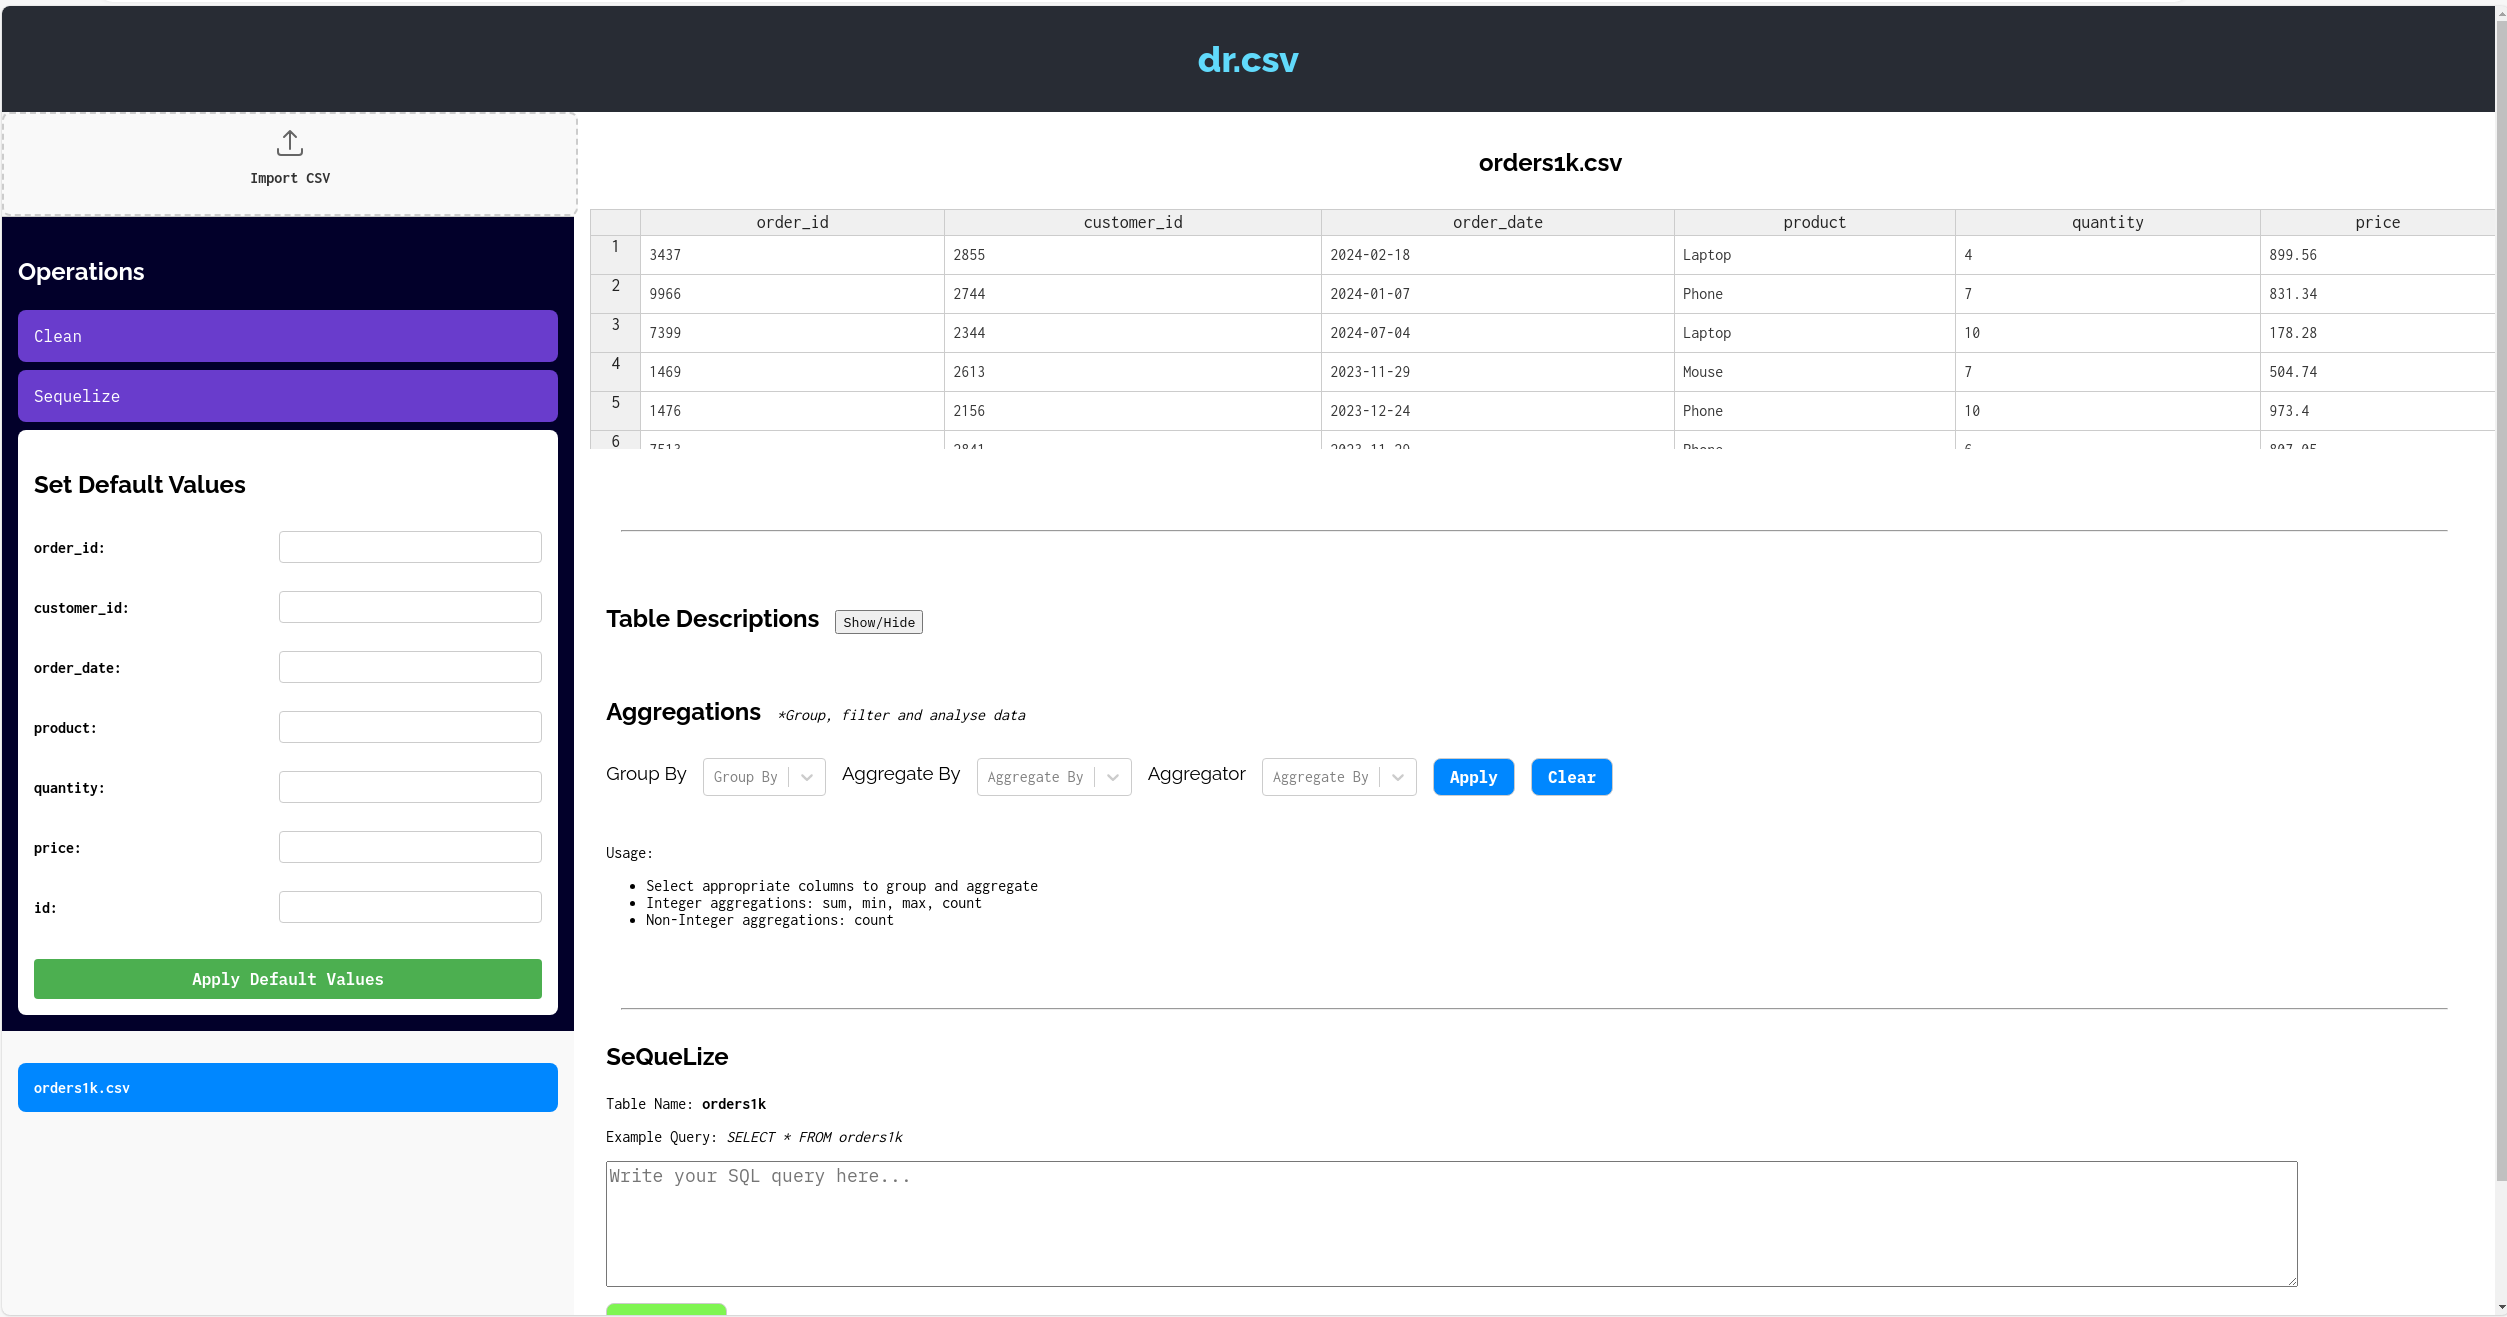
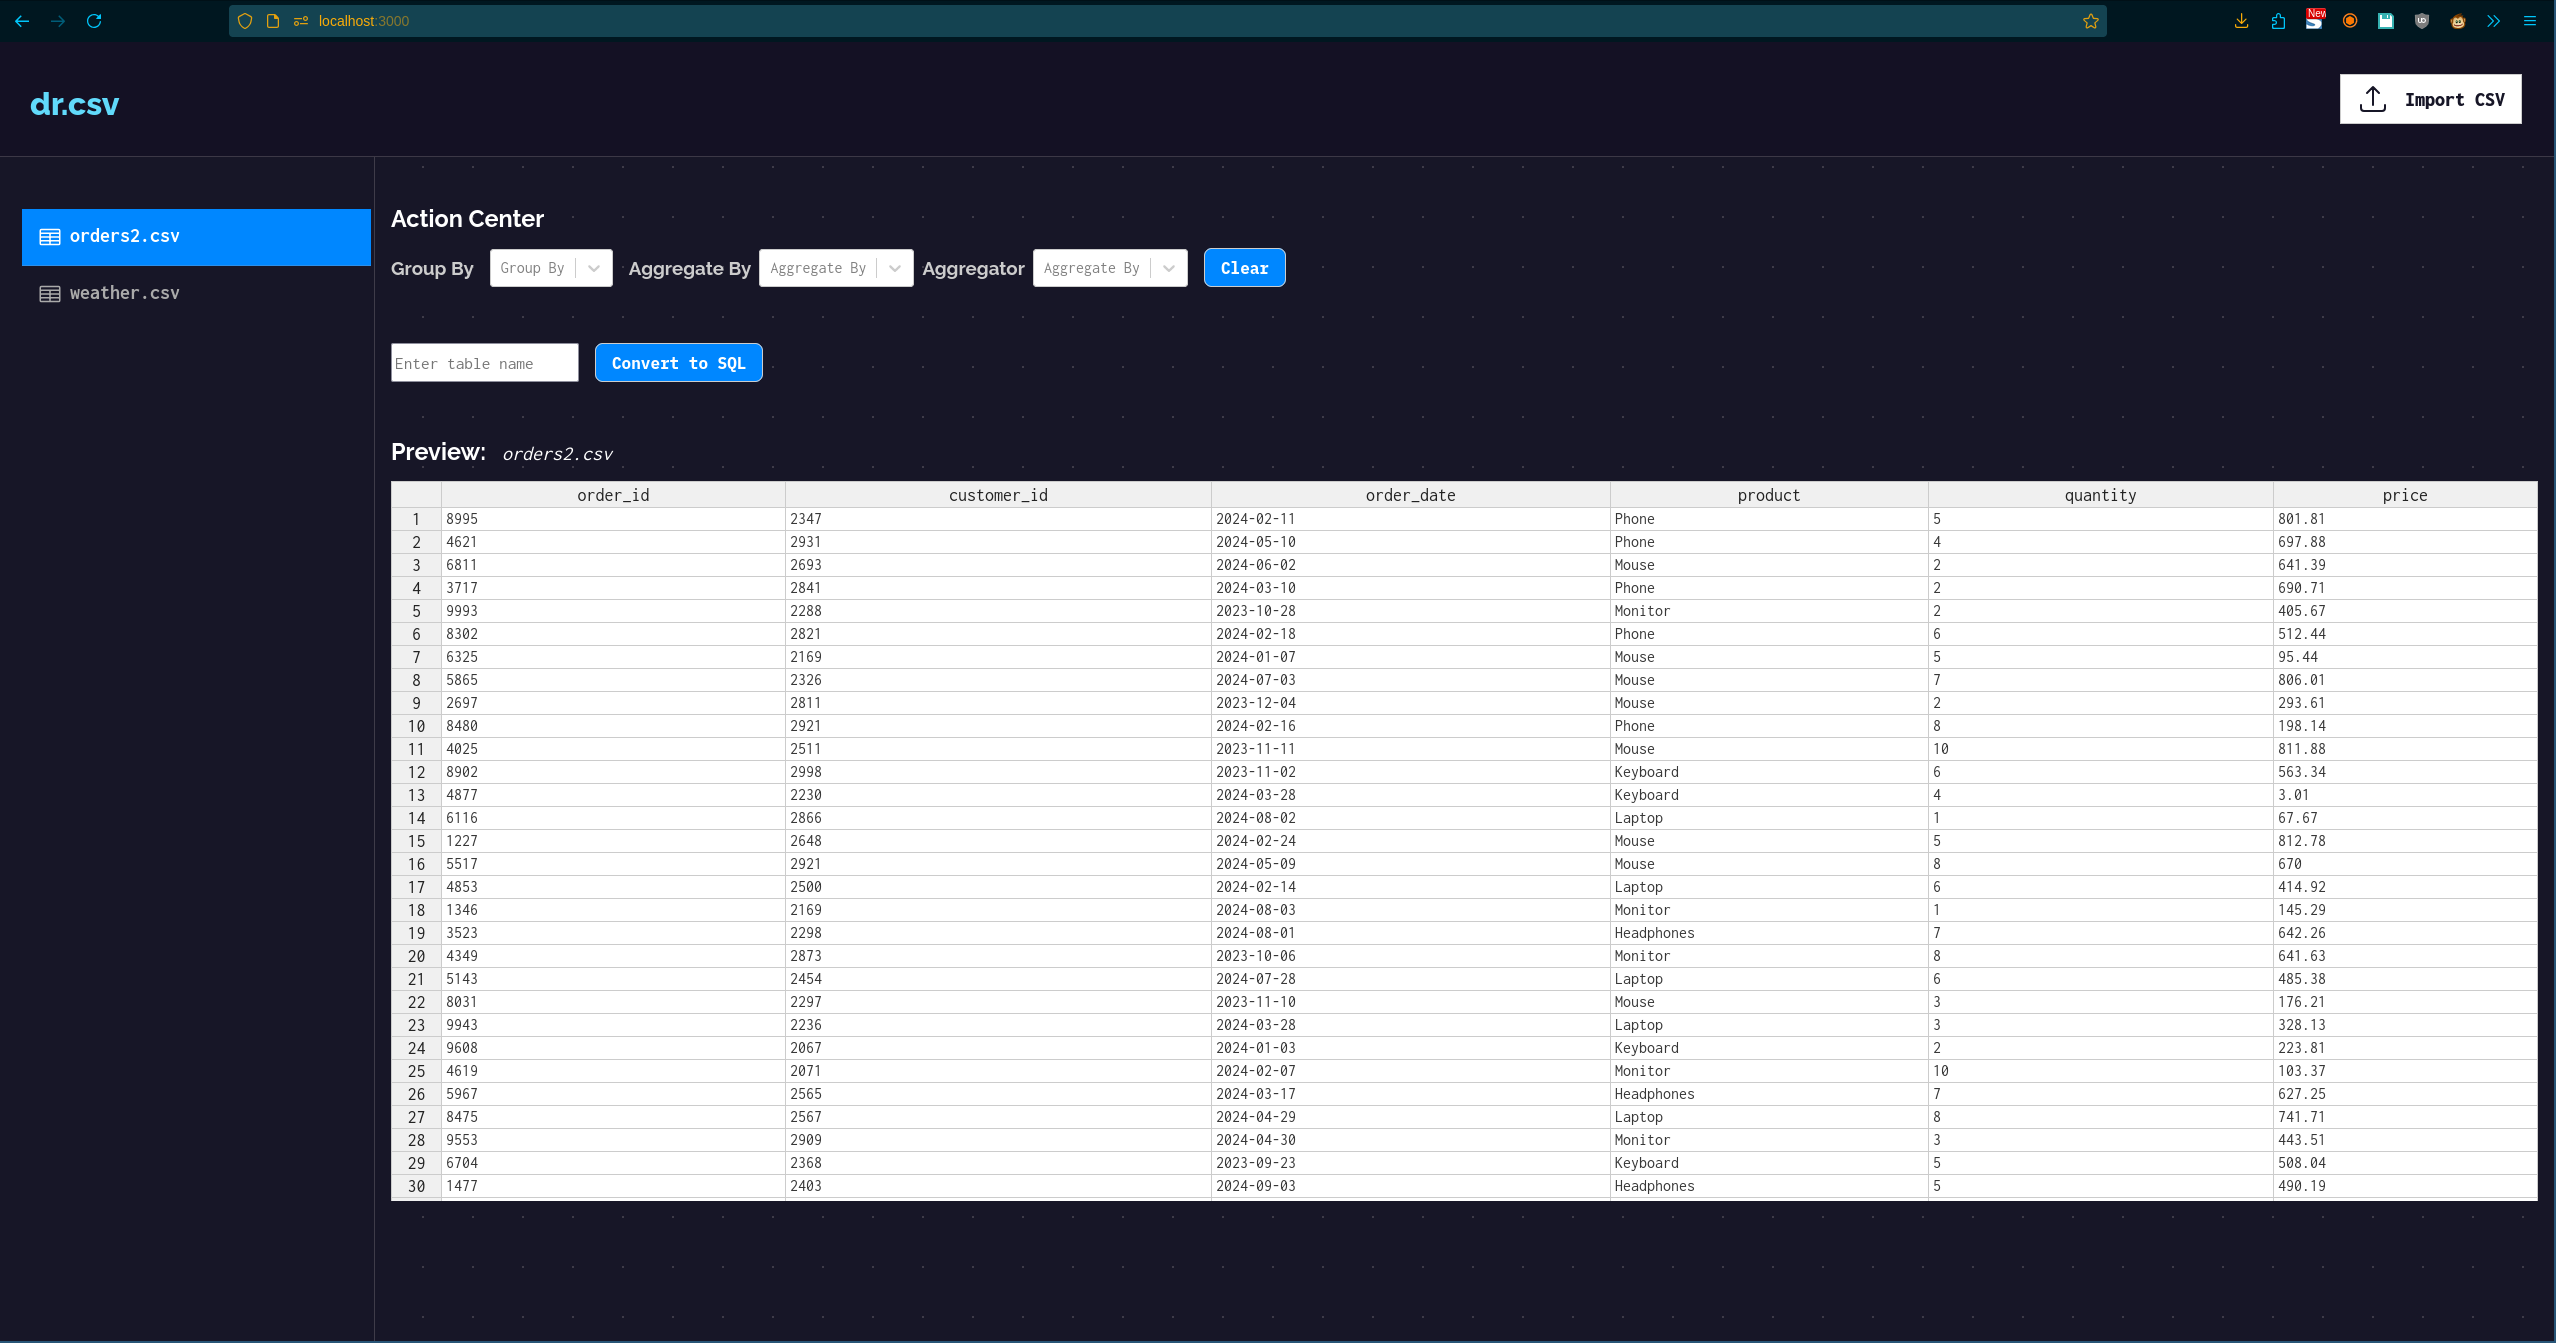
refactor: ui restructure for action center, hiding input fields in a portal

diff --git a/src/components/Toolbar.js b/src/components/Toolbar.js
@@ -1,10 +1,43 @@
-import React, { useRef, useEffect } from "react";
+import React, { useRef, useEffect, useState } from "react";
 import Select from 'react-select';
+
+import ConvertToSqlBtn from "./SqlLauncher";
 
 import 'handsontable/dist/handsontable.full.css';
 import '../Analysis.css';
 
 const AggregateColumns = ['sum', 'max', 'min', 'cumsum', 'count'].sort();
+
+function Portal({ title, handleClick, noToggle, children }) {
+  const [showHide, toggleShowHide] = useState(false)
+
+  let onClick = () => toggleShowHide(!showHide)
+
+  if (handleClick) {
+    onClick = (e) => {
+      handleClick(e);
+
+      if (noToggle && showHide) {
+        return;
+      }
+
+      toggleShowHide(!showHide)
+    }
+  }
+
+  return (
+    <section className="portal">
+      <h3
+        style={{ cursor: 'pointer' }}
+        onClick={onClick}
+        className={showHide ? 'active' : ''}
+      >
+        {`${title}${noToggle ? '!' : ''}`}
+      </h3>
+      {showHide && children ? <section className="portal-content">{children}</section> : null}
+    </section>
+  )
+}
 
 function GroupSelector({
   columns,
@@ -90,54 +123,46 @@ function GroupSelector({
   }
 
   return (
-    <div className="flex flex-row toolbar">
-      <h3>Group By</h3>
-      <Select
-        isClearable
-        defaultValue={null}
-        ref={columnRef}
-        options={groupColumns}
-        hideSelectedOptions={true}
-        placeholder="Group By"
-        onChange={handleGroupBy}
-        styles={selectStyle}
-      />
-      <div className="flex flex-row aggregations">
-        <h3>Aggregate By</h3>
+    <>
+      <Portal title='Group By'>
         <Select
           isClearable
-          ref={aggrRef}
           defaultValue={null}
-          options={aggrColumns}
+          ref={columnRef}
+          options={groupColumns}
           hideSelectedOptions={true}
-          placeholder="Aggregate By"
+          placeholder="Group By"
+          onChange={handleGroupBy}
           styles={selectStyle}
         />
-        <h3>Aggregator</h3>
-        <Select
-          isClearable
-          ref={actionRef}
-          defaultValue={null}
-          options={actions}
-          hideSelectedOptions={true}
-          onChange={onAggregatorChange}
-          placeholder="Aggregate By"
-          styles={selectStyle}
-        />
-      </div>
-      {/*<h3>Filter By</h3>
-      <Select
-        isClearable
-        ref={filterRef}
-        defaultValue={null}
-        options={groupColumns}
-        hideSelectedOptions={true}
-        onChange={onAggregatorChange}
-        placeholder="Filter By"
-        styles={{ menu: base => ({ ...base, zIndex: 999 }) }}
-      />*/}
-      <button onClick={onClear} className='Button Btn-blue'>Clear</button>
-    </div>
+      </Portal>
+
+      <Portal title='Aggregator'>
+        <div className="flex flex-row aggregations">
+          <Select
+            isClearable
+            ref={aggrRef}
+            defaultValue={null}
+            options={aggrColumns}
+            hideSelectedOptions={true}
+            placeholder="Aggregate By"
+            styles={selectStyle}
+          />
+          <Select
+            isClearable
+            ref={actionRef}
+            defaultValue={null}
+            options={actions}
+            hideSelectedOptions={true}
+            onChange={onAggregatorChange}
+            placeholder="Operation"
+            styles={selectStyle}
+          />
+        </div>
+
+      </Portal>
+      {/*<button onClick={onClear} className='Button Btn-blue'>Clear</button>*/}
+    </>
   );
 }
 
@@ -147,19 +172,30 @@ const Toolbar = ({
   handleAggregator,
   handleFilter,
   handleClear,
+  handleSqlLaunch,
+  sqlLaunched,
+  handleDataClean,
 }) => {
   if (!df) return null;
 
   return (
     <section className="toolbar-wrapper margin-b-xl">
       <h3>Action Center</h3>
-      <GroupSelector
-        columns={df.columns}
-        handleGroupBy={handleGroupBy}
-        handleAggregator={handleAggregator}
-        handleFilter={handleFilter}
-        handleClear={handleClear}
-      />
+      <div className="flex flex-row toolbar">
+        <GroupSelector
+          columns={df.columns}
+          handleGroupBy={handleGroupBy}
+          handleAggregator={handleAggregator}
+          handleFilter={handleFilter}
+          handleClear={handleClear}
+        />
+        {!sqlLaunched ? (
+          <Portal title='Squelize'>
+            <ConvertToSqlBtn handleSqlLaunch={handleSqlLaunch} />
+          </Portal>
+        ) : null}
+        <Portal title='Clean Data' noToggle={true} handleClick={handleDataClean} />
+      </div>
     </section>
   )
 

diff --git a/src/components/Workspace.js b/src/components/Workspace.js
@@ -3,7 +3,7 @@ import * as dfd from 'danfojs';
 
 import Toolbar from "./Toolbar";
 import Preview from "./Preview";
-import ConvertToSqlBtn, { SqlLoaderStates } from "./SqlLauncher";
+import { SqlLoaderStates } from "./SqlLauncher";
 import SqlArena from "./SqlArena";
 import GroupFilters from "./Grouping";
 
@@ -80,8 +80,7 @@ const WorkSpace = ({ file }) => {
   }
 
 
-  const handleFilter = (event) => {
-  }
+  const handleFilter = () => { }
 
   const handleClear = (filter) => {
     if (filter === "all") {
@@ -93,9 +92,9 @@ const WorkSpace = ({ file }) => {
     if (typeof filter !== "object") return;
 
     const key = toFilterKey(filter);
-    let newSet = new Set(uniqueFilters)
-    let updatedFilters = filters.filter(f => toFilterKey(f) != key)
+    const updatedFilters = filters.filter(f => toFilterKey(f) != key)
 
+    let newSet = new Set(uniqueFilters)
     newSet.delete(key)
 
     setUniqueFilters(newSet)
@@ -107,6 +106,10 @@ const WorkSpace = ({ file }) => {
     if (!launchData.table) return;
 
     setSqlState(launchData);
+  }
+
+  const handleDataClean = () => {
+    setDf(df.dropNa())
   }
 
   const renderWithSql = () => {
@@ -131,10 +134,7 @@ const WorkSpace = ({ file }) => {
 
   const renderWithoutSql = () => {
     return (
-      <>
-        <ConvertToSqlBtn handleSqlLaunch={handleSqlLaunch} />
-        <Preview df={df} fileName={file.name} filters={filters} />
-      </>
+      <Preview df={df} fileName={file.name} filters={filters} />
     );
   }
 
@@ -146,6 +146,9 @@ const WorkSpace = ({ file }) => {
         handleAggregator={handleAggregator}
         handleFilter={handleFilter}
         handleClear={handleClear}
+        handleSqlLaunch={handleSqlLaunch}
+        handleDataClean={handleDataClean}
+        sqlLaunched={sqlState.state === SqlLoaderStates.SUCCESS}
       />) : null}
 
       {filters.length ? <GroupFilters filters={filters} removeFilter={handleClear} /> : null}

diff --git a/src/components/SqlLauncher.js b/src/components/SqlLauncher.js
@@ -6,12 +6,12 @@ export const SqlLoaderStates = {
   FAILED: 'failed'
 }
 
-const SqlState = {
-  state: null,
-  table: null,
-}
+// const SqlState = {
+//   state: null,
+//   table: null,
+// }
 
-const ConvertToSqlBtn = ({ handleSqlLaunch }) => {
+const ConvertToSqlBtn = ({ handleSqlLaunch, classNames }) => {
   const tableRef = useRef(null);
 
   const handleSubmit = () => {
@@ -20,10 +20,15 @@ const ConvertToSqlBtn = ({ handleSqlLaunch }) => {
 
     handleSqlLaunch({ state: SqlLoaderStates.LOADING, table: value });
   }
+
+  let defaultClasses = new Set(['flex', 'flex-row']);
+  if (!classNames) classNames = defaultClasses;
+  else classNames = defaultClasses.union(classNames);
+
   return (
-    <section className="flex flex-row margin-b-xl" style={{ gap: '16px' }}>
+    <section className={[...classNames].join(' ')} style={{ gap: '16px' }}>
       <input ref={tableRef} type="text" placeholder="Enter table name" id="tableName" />
-      <button type="button" onClick={handleSubmit} className="Button Btn-blue">Convert to SQL</button>
+      <button type="button" onClick={handleSubmit} className="Button Btn-blue">Load Data</button>
     </section>
   )
 };

diff --git a/src/stylesheets/Toolbar.css b/src/stylesheets/Toolbar.css
@@ -12,10 +12,40 @@
 
 .aggregations {
   align-items: center;
-  gap: 8px;
+  gap: 16px;
 }
 
 .toolbar h3 {
   margin: 0;
   padding: 0;
+}
+
+.portal {
+  position: relative;
+}
+
+.portal h3 {
+  padding: 8px 16px;
+  border: 1px solid var(--border-color);
+  border-radius: 8px;
+}
+
+.portal h3.active {
+  color: #fff; 
+  background-color: rgb(66, 59, 174);
+}
+
+.portal-content {
+  position: absolute;
+  left: 0;
+  right: 0;
+  top: 48px;
+
+  padding: 32px 16px;
+  border: 1px solid var(--border-color);
+  background-color: rgb(66, 59, 174);
+  width: max-content;
+  min-width: 400px;
+  box-shadow: 2px 1px 5px #333;
+  z-index: 999;
 }

diff --git a/src/components/SqlArena.js b/src/components/SqlArena.js
@@ -126,6 +126,8 @@ const SqlArena = ({ df, tableName, launched, handleSqlState }) => {
     return null;
   }
 
+  if (!df) return null;
+
   return (
     <>
       <hr className='separator' />
@@ -141,7 +143,7 @@ const SqlArena = ({ df, tableName, launched, handleSqlState }) => {
               flexShrink: 0
             }}
           >
-            <DescriptionTable df={df} />
+            {dataLoadStatus === SqlLoaderStates.SUCCESS ? <DescriptionTable df={df} /> : null}
           </section>
         </div>
         {/* Results Table */}

diff --git a/src/Home.css b/src/Home.css
@@ -39,6 +39,7 @@
   display: flex;
   flex-direction: column;
   border-right: 1px solid var(--border-color);
+  padding-top: 32px;
   /* padding: 16px; */
 }
 
@@ -180,6 +181,7 @@
 
 .workspace {
   padding: 16px;
+  padding-top: 32px;
 }
 
 input[type="file"] {

diff --git a/src/App.css b/src/App.css
@@ -22,6 +22,7 @@
   justify-content: space-between;
   font-size: calc(10px + 2vmin);
   color: white;
+  border-bottom: 1px solid var(--border-color);
 }
 
 .App-link {
